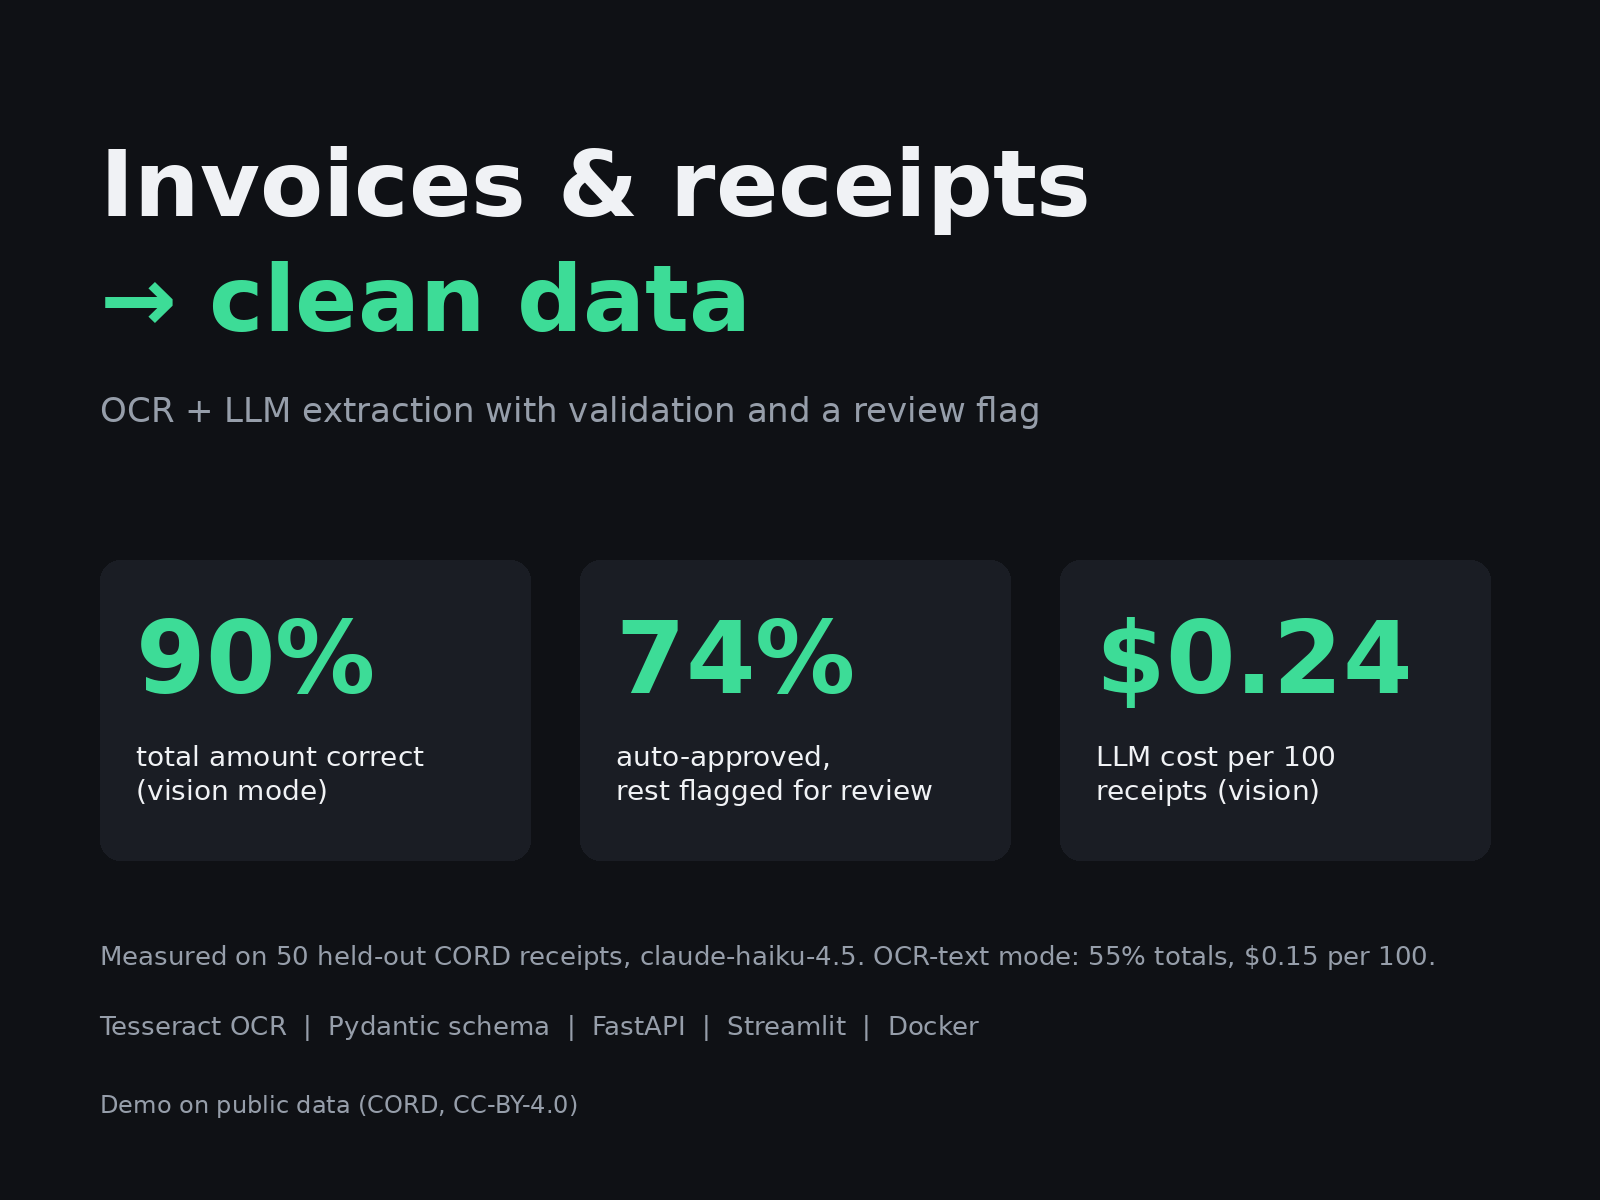
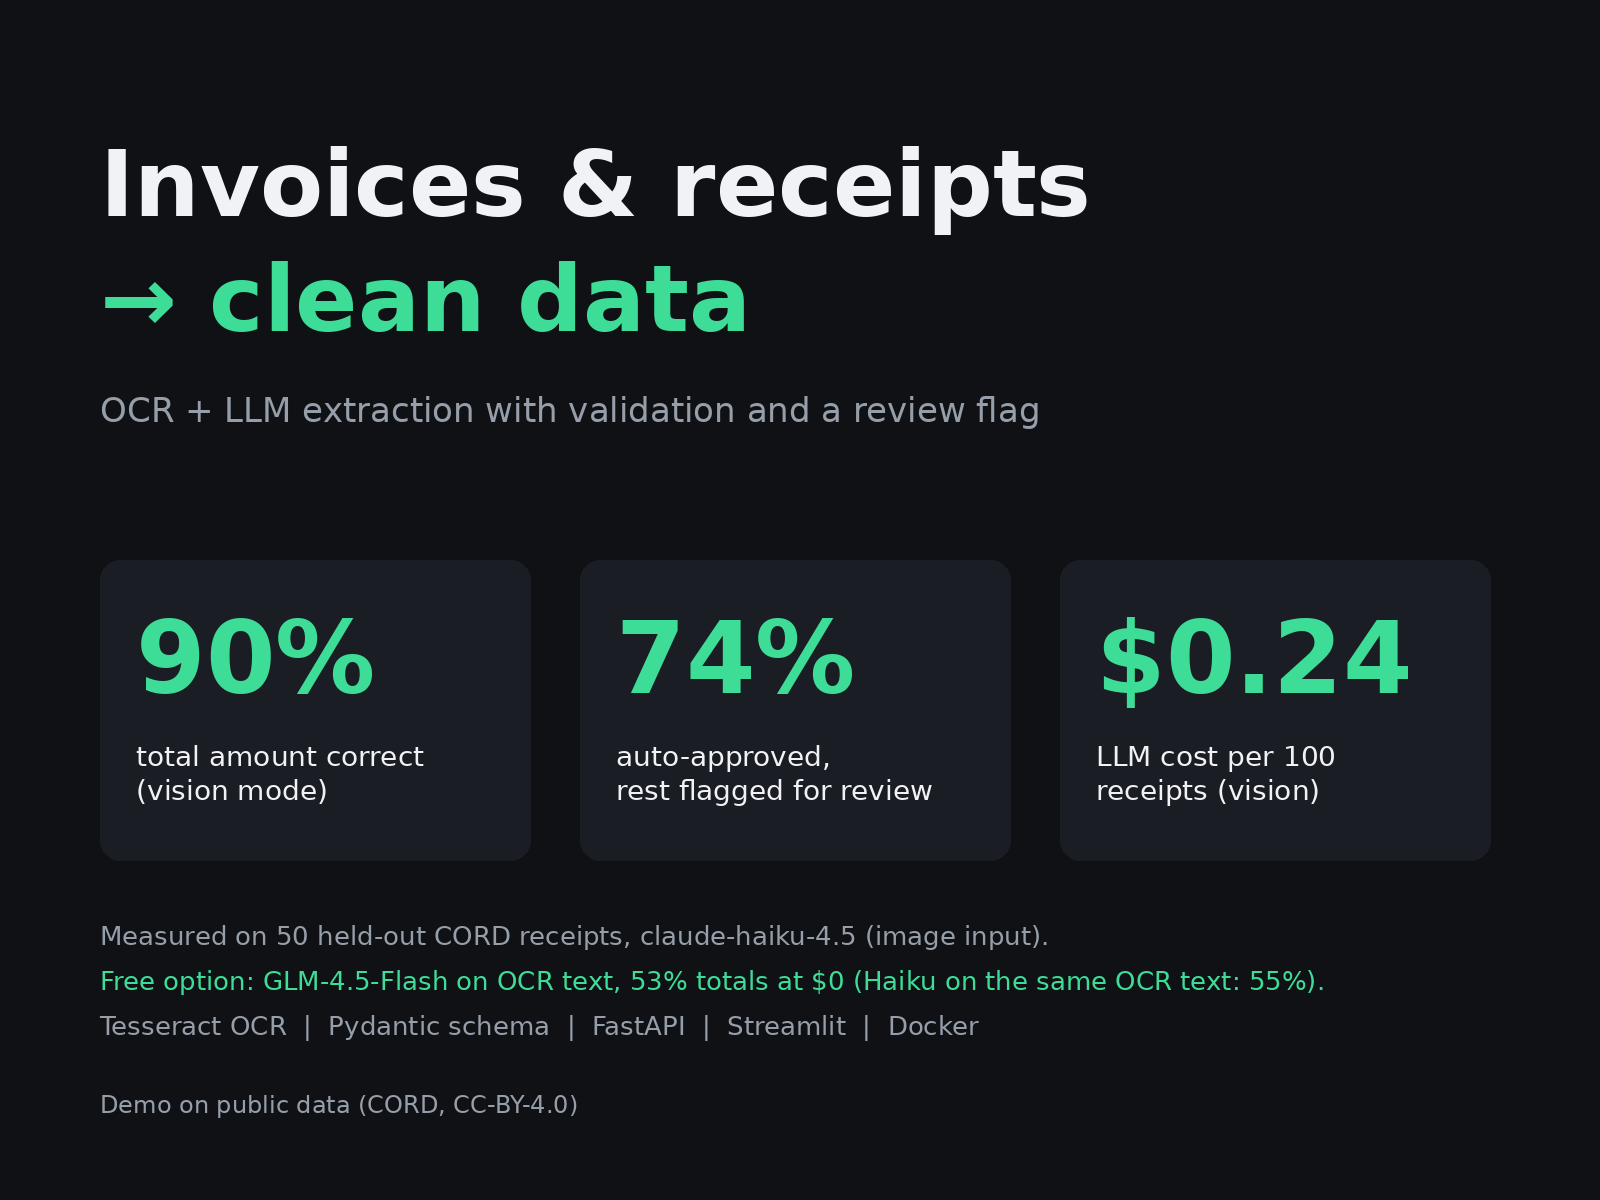
update readme, cover and portfolio text for glm

Changed region(s): [[0.0625, 0.7708, 0.875, 0.8325]]

diff --git a/assets/make_assets.py b/assets/make_assets.py
@@ -70,14 +70,17 @@ def cover():
         d.rounded_rectangle([x, 560, x + 430, 860], 20, fill=(26, 29, 36))
         d.text((x + 36, 600), big, font=font(100, True), fill=GREEN)
         d.multiline_text((x + 36, 740), small, font=font(28), fill=FG, spacing=8)
-    d.text((100, 940), f"Measured on {B['docs']} held-out CORD receipts, claude-haiku-4.5. "
-                       f"OCR-text mode: {100 * A['total_acc']:.0f}% totals, ${A['cost_per_100']:.2f} per 100.",
+    d.text((100, 920), f"Measured on {B['docs']} held-out CORD receipts, claude-haiku-4.5 (image input).",
            font=font(26), fill=DIM)
+    G = {s["mode"]: s for s in json.loads((ROOT / "eval/summary_glm.json").read_text())}["text"]
+    d.text((100, 965), f"Free option: GLM-4.5-Flash on OCR text, {100 * G['total_acc']:.0f}% totals at $0 "
+                       f"(Haiku on the same OCR text: {100 * A['total_acc']:.0f}%).", font=font(26), fill=GREEN)
     d.text((100, 1010), "Tesseract OCR  |  Pydantic schema  |  FastAPI  |  Streamlit  |  Docker", font=font(26), fill=DIM)
     d.text((100, 1090), "Demo on public data (CORD, CC-BY-4.0)", font=font(24), fill=DIM)
     im.save(ROOT / "assets/cover_1600x1200.png")
 
 
 if __name__ == "__main__":
-    side_by_side()
+    if "--cover-only" not in sys.argv:
+        side_by_side()
     cover()

diff --git a/README.md b/README.md
@@ -26,7 +26,7 @@ PDF / image
 - `api/app.py`: FastAPI, `POST /extract` (file upload, `?mode=text|vision`, `?format=json|csv`).
 - `ui/app.py`: Streamlit, image with OCR boxes on the left, fields on the right, failing fields marked, CSV and JSON download.
 - `eval/run_eval.py`: field-level accuracy, mode A vs B.
-- The LLM backend is chosen with env vars (`LLM_PROVIDER=openrouter|anthropic|openai`, `LLM_MODEL`). The eval below ran through OpenRouter.
+- The LLM backend is chosen with env vars: `LLM_PROVIDER=zai|openrouter|anthropic|openai`, `LLM_MODEL` (text) and `LLM_VISION_MODEL` (images). The default is Z.ai's free GLM Flash models (`glm-4.5-flash` for text, `glm-4.6v-flash` for images).
 
 ![side by side](assets/side_by_side.png)
 
@@ -34,29 +34,32 @@ The receipt above is a real eval case: the model read the cash tendered line as 
 
 ## Results
 
-Data: 50 receipts drawn with a fixed seed (42) from the CORD v2 test split. They were never used while writing prompts or choosing thresholds; those were tuned on a handful of receipts from the validation split. Model: `anthropic/claude-haiku-4.5` via OpenRouter for both modes, Tesseract 5 for OCR. Everything here is copied from [`eval/results.md`](eval/results.md), produced by `python -m eval.run_eval` (per-document rows in `eval/results.csv`).
+Data: 50 receipts drawn with a fixed seed (42) from the CORD v2 test split, the same 50 for every model. They were never used while writing prompts or choosing thresholds; those were tuned on a handful of receipts from the validation split. OCR is Tesseract 5. Everything here is copied from [`eval/results.md`](eval/results.md), produced by `python -m eval.run_eval` (per-document rows in `eval/results*.csv`).
 
-| Metric | A: OCR text to LLM | B: image to vision LLM |
-|---|---|---|
-| Total amount correct | 55% | 90% |
-| Subtotal correct (33 receipts that have one) | 48% | 85% |
-| Tax correct (23 receipts that have one) | 39% | 74% |
-| Line items F1 (amount + description match) | 44% | 83% |
-| Item quantity correct (matched items) | 70% | 96% |
-| Receipts with total, subtotal and tax all correct | 50% | 76% |
-| Receipts with everything correct incl. all line items | 20% | 60% |
-| Flagged for review | 68% | 26% |
-| Auto-approved receipts with total, subtotal and tax all correct | 88% | 95% |
-| Median latency per receipt | 2.6 s | 2.9 s |
-| LLM cost per 100 receipts | US$0.15 | US$0.24 |
+| Metric | A: GLM-4.5-Flash (OCR text) | A: Haiku 4.5 (OCR text) | B: Haiku 4.5 (image) |
+|---|---|---|---|
+| Total amount correct | 53% | 55% | 90% |
+| Subtotal correct (33 receipts that have one) | 42% | 48% | 85% |
+| Tax correct (23 receipts that have one) | 39% | 39% | 74% |
+| Line items F1 (amount + description match) | 41% | 44% | 83% |
+| Item quantity correct (matched items) | 76% | 70% | 96% |
+| Receipts with total, subtotal and tax all correct | 46% | 50% | 76% |
+| Receipts with everything correct incl. all line items | 14% | 20% | 60% |
+| Flagged for review | 66% | 68% | 26% |
+| Auto-approved receipts with total, subtotal and tax all correct | 76% | 88% | 95% |
+| Median latency per receipt | 9.3 s | 2.6 s | 2.9 s |
+| LLM cost per 100 receipts | US$0.00 (free tier) | US$0.15 | US$0.24 |
+
+GLM ran on the Z.ai API (free Flash models, see the [pricing page](https://docs.z.ai/guides/overview/pricing); token counts are still recorded in the results). Haiku ran through OpenRouter, and its cost is what OpenRouter reported per call. **The GLM image mode (`glm-4.6v-flash`) is not measured**: for about an hour of retries every request to it returned "service overloaded" (code 1305), so there is no column for it. The command to fill it in later is under "Run it".
 
 ![accuracy](assets/accuracy_chart.png)
 
 What this says, honestly:
 
-- Vision beats OCR-then-LLM by a wide margin here, mostly because CORD is phone photos of crumpled thermal receipts and Tesseract reads them badly (16 of 50 receipts yielded no usable total in mode A). On clean scans or digital PDFs, mode A is much closer and cheaper; this eval does not measure that.
-- Validation earns its keep. Mode B had 5 wrong totals and validation flagged 4; mode A had 22 wrong or missing totals and flagged 20 (16 of those were "no total found"; of the 6 wrong values, 4 were flagged). It also raises false alarms: it flagged 9 of 45 receipts in B whose total was right, because CORD receipts carry discounts, rounding and service charges that the rules only partly model. Examples are listed in `eval/results.md`, for instance a receipt where the model returned a total of 100000 against a true 60500, caught because the line items summed to 155000 against a subtotal of 95000.
-- Cost is the amount OpenRouter reported per call. Latency is the median wall-clock time per receipt (OCR plus LLM for mode A). Means are not reported because the first full run hit transient OpenRouter credit errors that triggered backoff retries.
+- On the same OCR text, free GLM-4.5-Flash lands within a few points of Haiku on totals (53% vs 55%), at no cost but with slower responses (median 9.3 s, partly waiting out the free tier's overload retries).
+- Vision beats OCR-then-LLM by a wide margin here, mostly because CORD is phone photos of crumpled thermal receipts and Tesseract reads them badly (16 of 50 receipts yielded no usable total in mode A with Haiku, 15 with GLM). On clean scans or digital PDFs, mode A is much closer and cheaper; this eval does not measure that.
+- Validation earns its keep. Haiku mode B had 5 wrong totals and validation flagged 4; Haiku mode A had 22 wrong or missing totals and flagged 20 (16 of those were "no total found"; of the 6 wrong values, 4 were flagged); GLM mode A had 23 and flagged 20 (5 of its 8 wrong values). It also raises false alarms: it flagged 9 of 45 receipts in B whose total was right, because CORD receipts carry discounts, rounding and service charges that the rules only partly model. Examples are listed in `eval/results.md`, for instance a receipt where the model returned a total of 100000 against a true 60500, caught because the line items summed to 155000 against a subtotal of 95000.
+- Latency is the median wall-clock time per receipt (OCR plus LLM for mode A). Means are not reported because the runs hit transient provider errors (OpenRouter credit errors, Z.ai overload) that triggered backoff retries.
 - Results vary a little between runs and machines: OCR output and LLM replies are not bit-for-bit repeatable, so a re-run of the same receipt can differ from the cached eval.
 - 50 receipts is a small sample, so a few points of difference are noise.
 
@@ -74,15 +77,15 @@ CORD annotates menu items, subtotal, tax and total. So the eval scores `total`, 
 
 ```bash
 bash scripts/download_data.sh      # CORD (only needed for the eval)
-cp .env.example .env               # add OPENROUTER_API_KEY (or ANTHROPIC_API_KEY / OPENAI_API_KEY)
+cp .env.example .env               # add ZAI_API_KEY (default, free GLM models) or set LLM_PROVIDER + OPENROUTER/ANTHROPIC/OPENAI key
 docker compose up --build          # UI on :8501, API on :8000
 ```
 
 Open http://localhost:8501 and upload a receipt (or press "Use sample receipt"). API: `curl -F file=@receipt.jpg localhost:8000/extract`.
 
-Without Docker (needs `tesseract-ocr` installed): `python -m venv .venv && .venv/bin/pip install -r requirements.txt`, then `streamlit run ui/app.py` and `uvicorn api.app:app`. Re-run the eval with `python -m eval.run_eval --mode both && python eval/report.py` (replies are cached in `eval/cache`).
+Without Docker (needs `tesseract-ocr` installed): `python -m venv .venv && .venv/bin/pip install -r requirements.txt`, then `streamlit run ui/app.py` and `uvicorn api.app:app`. Re-run the eval with `python -m eval.run_eval --mode both --tag _glm && python eval/report.py` for the default GLM models, or `LLM_PROVIDER=openrouter python -m eval.run_eval --mode both` for the Haiku columns (replies are cached in `eval/cache`, so an interrupted run resumes).
 
-`docker compose up --build` was tested: both containers started and served the UI, `/health` and `/extract`. The test machine's proxy needed an extra CA certificate during `pip install` inside the build, which is not part of the committed Dockerfile; a normal network does not need it.
+`docker compose up --build` was tested: both containers started and served the UI, `/health` and `/extract`. The test machine's proxy needed an extra CA certificate during `pip install` inside the build, which is not part of the committed Dockerfile; a normal network does not need it. That test ran before the default switched to Z.ai GLM; the switch only changes environment defaults, and the containers were not rebuilt after it. The demo GIF was also recorded with Haiku via OpenRouter.
 
 ## Data and licenses
 

diff --git a/assets/upwork_portfolio.md b/assets/upwork_portfolio.md
@@ -4,10 +4,10 @@
 
 **Role:** Document AI engineer (solo demo project)
 
-**Description:** Demo on public data. Manual entry from receipts is slow and OCR text is messy. Pipeline: OCR, LLM extraction to a strict schema, validation of totals, review flags. Measured on 50 held-out receipts: 90% totals correct, 74% auto-approved, US$0.24 per 100 documents.
+**Description:** Demo on public data. Manual entry from receipts is slow and OCR text is messy. Pipeline: OCR, LLM extraction to a strict schema, validation of totals, review flags. Measured on 50 held-out receipts: 90% totals correct, 74% auto-approved, US$0.24 per 100 documents; free GLM option: 53% on OCR text at $0.
 
 **Skills:** OCR, Document AI, Large Language Model, Python, FastAPI, Data Extraction
 
 **Media order:** demo.gif, side_by_side.png, cover_1600x1200.png, accuracy_chart.png
 
-Numbers come from `eval/results.md` (vision mode, claude-haiku-4.5, CORD v2 test subset).
+Numbers come from `eval/results.md` (vision mode, claude-haiku-4.5, CORD v2 test subset; free option: GLM-4.5-Flash on OCR text).
